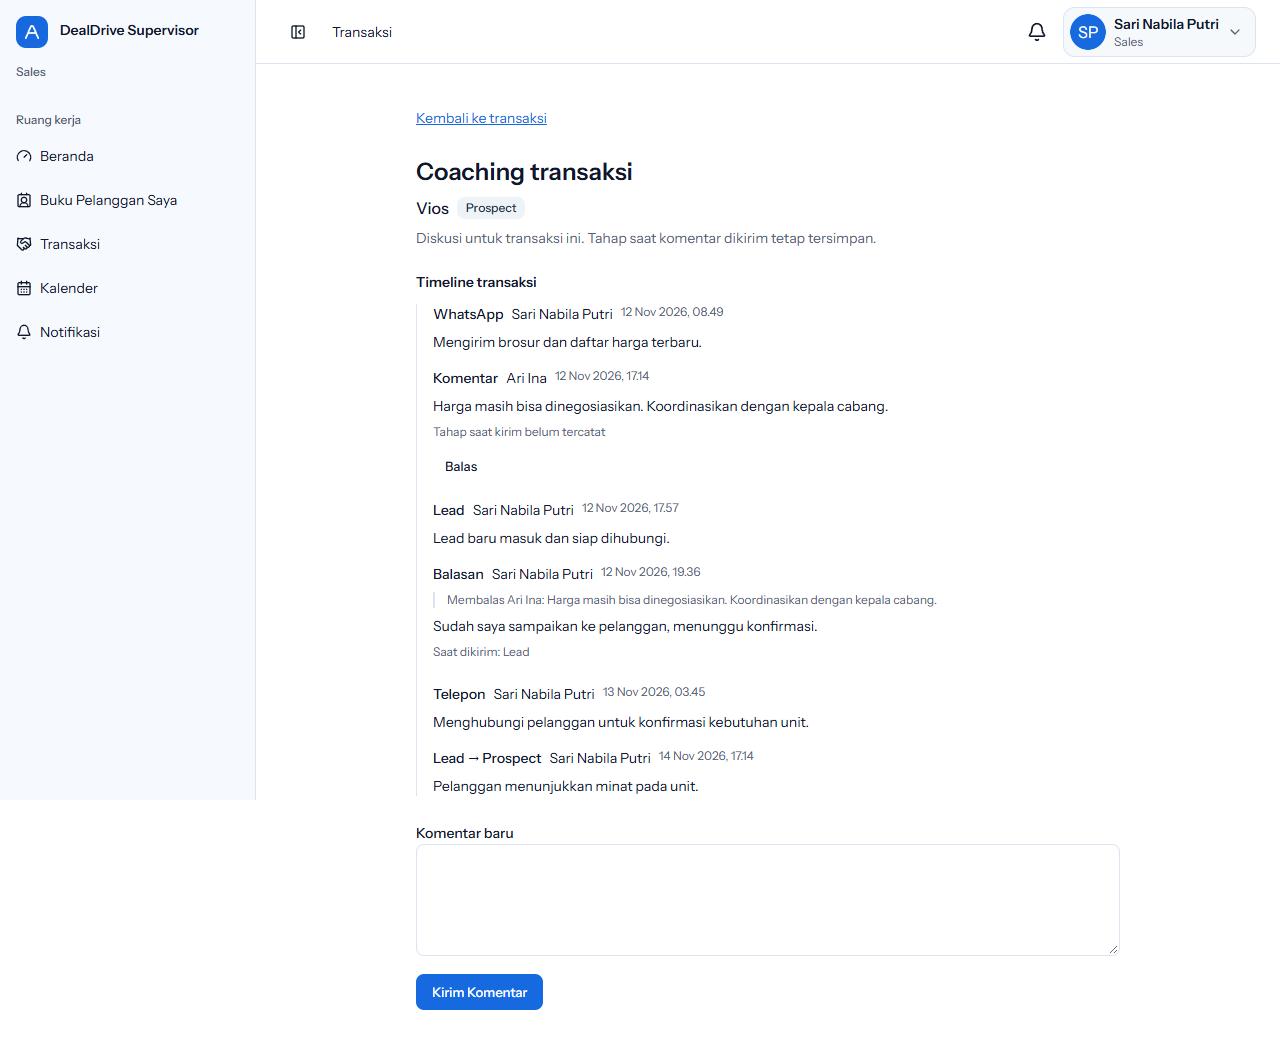
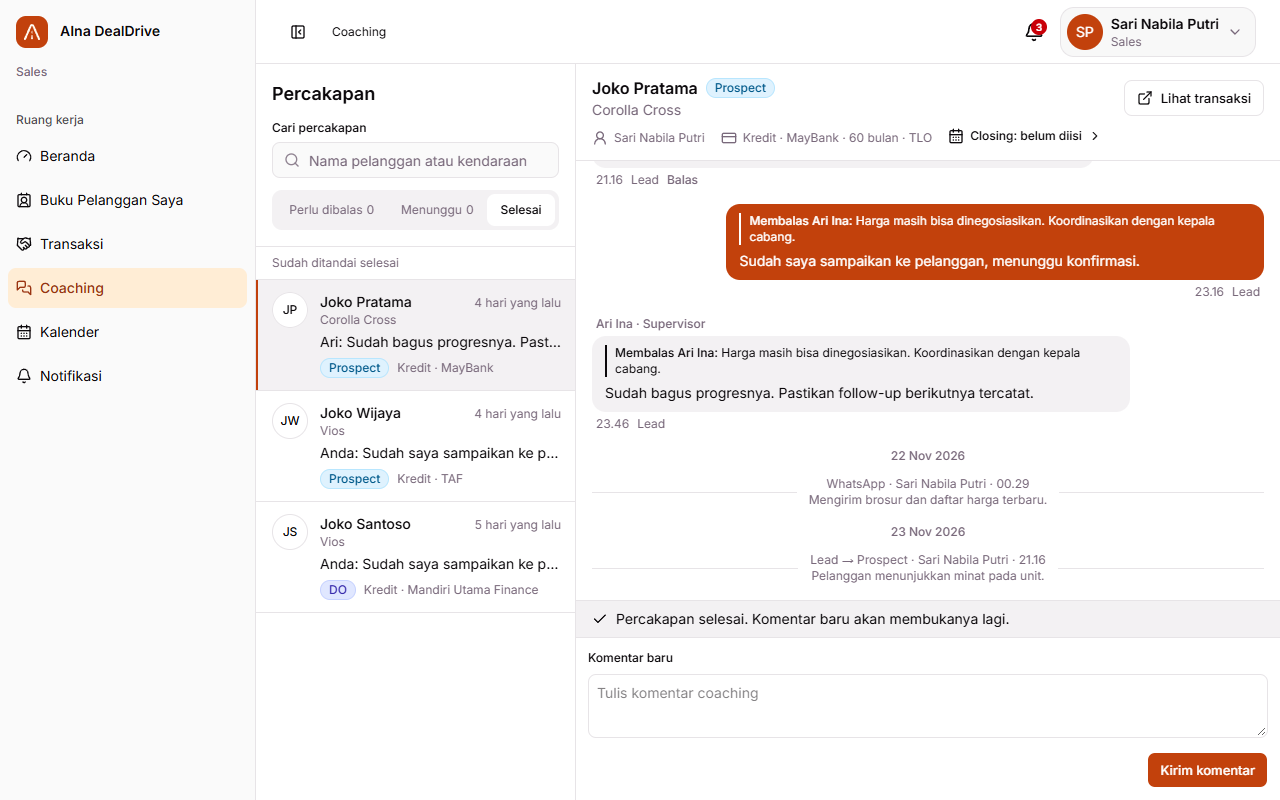
docs(coaching): record coaching inbox rules and update the manual

diff --git a/public/manual/supervisor.html b/public/manual/supervisor.html
@@ -168,12 +168,25 @@
     <li>Tulis arahan di <span class="ui">Komentar baru</span>, lalu klik <span class="ui">Kirim komentar</span>.</li>
     <li>Untuk menanggapi balasan Sales, klik <span class="ui">Balas</span> pada komentarnya.</li>
   </ol>
+  <h3>Menu Coaching</h3>
+  <p>Menu <span class="ui">Coaching</span> mengumpulkan semua percakapan tim Anda (di HP: <span class="ui">Lainnya</span>). Pilih percakapan di daftar untuk membaca dan membalasnya.</p>
+  <ul>
+    <li><strong>Perlu dibalas</strong>: komentar terakhir ditulis Sales. Percakapan tetap di sini sampai dibalas atau selesai, tanpa batas waktu.</li>
+    <li><strong>Menunggu</strong>: komentar terakhir dari Anda atau Supervisor lain di tim.</li>
+    <li><strong>Selesai</strong>: sudah ditandai selesai. Komentar baru membukanya lagi.</li>
+  </ul>
+  <ol class="steps">
+    <li>Bila arahan sudah dijalankan, klik <span class="ui">Tandai selesai</span>. Hanya Supervisor yang dapat melakukannya, dan percakapan hilang dari daftar aktif Anda dan Sales.</li>
+    <li>Bila muncul <em>Ada komentar baru</em>, baca dulu balasan yang baru masuk, lalu tandai lagi.</li>
+    <li>Klik <span class="ui">Buka lagi</span> bila percakapan ternyata belum tuntas.</li>
+  </ol>
+  <p>Transaksi yang menjadi DO atau Lost tidak otomatis selesai, supaya alasannya masih dapat dibahas. <span class="ui">Lihat transaksi</span> membuka halaman Transaksi yang hanya berisi transaksi itu. Kotak pencarian mencari nama pelanggan atau kendaraan di semua status.</p>
   <figure>
-    <a href="img/spv/coaching.png" target="_blank"><img src="img/spv/coaching.png" alt="Halaman coaching transaksi dengan timeline dan komentar" width="1280" height="800" loading="lazy"></a>
-    <figcaption>Halaman Coaching transaksi: timeline aktivitas, perubahan tahap, komentar, dan balasan.</figcaption>
+    <a href="img/spv/coaching.png" target="_blank"><img src="img/spv/coaching.png" alt="Halaman Coaching dengan daftar percakapan dan chat" width="1280" height="800" loading="lazy"></a>
+    <figcaption>Halaman Coaching (data contoh): daftar percakapan, chat, perubahan tahap, dan aktivitas.</figcaption>
   </figure>
   <ul>
-    <li>Setiap komentar mencatat tahap transaksi saat dikirim (<em>Saat dikirim: …</em>).</li>
+    <li>Setiap komentar mencatat tahap transaksi saat dikirim.</li>
     <li>Komentar masih dapat diperbaiki dalam <strong>5 menit</strong> setelah dikirim.</li>
     <li>Sales menerima pemberitahuan di aplikasi dan email. Email tidak memuat isi komentar.</li>
   </ul>

diff --git a/public/manual/index.html b/public/manual/index.html
@@ -18,7 +18,7 @@
   <h1>Manual Book AIna DealDrive</h1>
   <p>Panduan langkah demi langkah memakai aplikasi AIna DealDrive. Pilih manual sesuai peran akun Anda.</p>
   <ul class="meta">
-    <li>Versi 1.4.0</li>
+    <li>Versi 1.5.0</li>
     <li>25 November 2026</li>
     <li>Berlaku untuk aplikasi v1.5.0 dan pembaruan sesudahnya</li>
   </ul>
@@ -56,6 +56,7 @@
   <h2>Riwayat versi</h2>
   <div class="table-wrap"><table>
     <tr><th>Versi</th><th>Tanggal</th><th>Versi aplikasi</th><th>Perubahan</th></tr>
+    <tr><td>1.5.0</td><td>25 November 2026</td><td>Setelah v1.9.0</td><td>Menu <strong>Coaching</strong> baru: daftar percakapan yang perlu dibalas, menunggu, atau selesai, dengan tampilan chat dan tautan ke transaksinya. Supervisor menandai percakapan selesai.</td></tr>
     <tr><td>1.4.0</td><td>25 November 2026</td><td>v1.9.0</td><td>Supervisor dan Admin dapat menghapus transaksi ganda atau salah input bulan berjalan dari detail transaksi, dengan alasan wajib.</td></tr>
     <tr><td>1.3.0</td><td>20 November 2026</td><td>v1.5.0+</td><td>Tahap <strong>Delivery</strong> dihapus; DO menjadi tahap akhir. Pembatalan DO oleh Admin hanya pada bulan yang sama saat DO dicatat. Follow-up tidak dapat dijadwalkan pada transaksi DO atau Lost.</td></tr>
     <tr><td>1.2.0</td><td>20 November 2026</td><td>v1.4.0+</td><td>Sumber lead Repeat Order dan Database ditambahkan; Telepon Masuk dihapus. Transaksi mencatat <strong>Warna</strong> dan <strong>Ownership</strong> kendaraan (Ownership wajib saat DO). Filter Transaksi memakai <strong>Rentang tanggal tahap</strong>. Supervisor: laporan <strong>Capaian Sales</strong> dan tabel capaian per tahap di Beranda, grafik di Sumber &amp; Model yang bisa diklik untuk Drilldown, dan notifikasi Stagnan kini membuka semua transaksi stagnan.</td></tr>
@@ -66,7 +67,7 @@
 </section>
 
 <footer>
-  <p>Manual Book AIna DealDrive · Versi 1.4.0 · Pertanyaan tentang penggunaan aplikasi dapat disampaikan kepada Supervisor atau Admin dealer Anda.</p>
+  <p>Manual Book AIna DealDrive · Versi 1.5.0 · Pertanyaan tentang penggunaan aplikasi dapat disampaikan kepada Supervisor atau Admin dealer Anda.</p>
 </footer>
 </main>
 </body>

diff --git a/public/manual/sales.html b/public/manual/sales.html
@@ -382,10 +382,17 @@
     <li>Komentar Anda masih dapat diperbaiki dalam <strong>5 menit</strong> setelah dikirim.</li>
     <li>Komentar baru menghasilkan pemberitahuan di aplikasi dan email. Email tidak memuat isi komentar; buka aplikasi untuk membacanya.</li>
   </ul>
-  <p>Percakapan ini juga dapat dibuka sebagai halaman penuh beserta linimasa transaksi:</p>
+  <h3>Menu Coaching</h3>
+  <p>Menu <span class="ui">Coaching</span> mengumpulkan semua percakapan transaksi Anda (di HP: <span class="ui">Lainnya</span>). Pilih percakapan di daftar untuk membaca dan membalasnya.</p>
+  <ul>
+    <li><strong>Perlu dibalas</strong>: komentar terakhir ditulis Supervisor. Percakapan tetap di sini sampai dibalas atau selesai, tanpa batas waktu.</li>
+    <li><strong>Menunggu</strong>: komentar terakhir dari Anda.</li>
+    <li><strong>Selesai</strong>: sudah ditandai selesai oleh Supervisor. Komentar baru membukanya lagi.</li>
+  </ul>
+  <p>Di atas chat tampil pelanggan, kendaraan, tahap, pembiayaan, dan estimasi closing. Klik <span class="ui">Lihat transaksi</span> untuk membuka halaman Transaksi yang hanya berisi transaksi itu. Kotak pencarian mencari nama pelanggan atau kendaraan di semua status.</p>
   <figure>
-    <a href="img/coaching.png" target="_blank"><img src="img/coaching.png" alt="Halaman coaching transaksi" width="1280" height="1042" loading="lazy"></a>
-    <figcaption>Halaman Coaching transaksi.</figcaption>
+    <a href="img/coaching.png" target="_blank"><img src="img/coaching.png" alt="Halaman Coaching dengan daftar percakapan dan chat" width="1280" height="800" loading="lazy"></a>
+    <figcaption>Halaman Coaching (data contoh).</figcaption>
   </figure>
 </section>
 

diff --git a/docs/agents/uat-matrix.md b/docs/agents/uat-matrix.md
@@ -108,6 +108,8 @@ Kolom UAT sengaja terpisah dari status teknis. Semua hasil masih **Belum dijalan
 | [CVS-12](PRD.md#75-conversation--coaching-cvs) | S, V | [V03](#v03) | [E35](#e35): Supervisor tim menerima notifikasi saat Sales mengubah tahap dan saat DO dibatalkan; pelaku, Supervisor nonaktif, transisi ditolak dan lead baru tidak memicu notifikasi. | Parsial | Isi notifikasi "tanpa data pelanggan" belum diassert eksplisit. | Belum dijalankan |
 | [CVS-13](PRD.md#75-conversation--coaching-cvs) | S, V | [V03](#v03) | [E36](#e36): notifikasi per transaksi untuk Sales dan ringkasan untuk Supervisor; idempoten, ulang setelah aktif lalu stagnan lagi, batas hari Jakarta, jadwal harian terdaftar. | Terverifikasi teknis | Bergantung scheduler production berjalan ([O01](#o01)); UAT manusia belum dijalankan. | Belum dijalankan |
 | [CVS-14](PRD.md#75-conversation--coaching-cvs) | Semua | [V03](#v03) | [E37](#e37): notifikasi rilis di lonceng dan riwayat semua role, satu kali per pengguna aktif, halaman Riwayat Rilis untuk semua role, validasi isi rilis. | Parsial | Versi aplikasi di menu pengguna dan bahasa awam isi rilis belum diassert. | Belum dijalankan |
+| [CVS-15](PRD.md#75-conversation--coaching-cvs) | S, V, A, B | [V03](#v03) | [CoachingInboxTest](../../tests/Feature/Customer/CoachingInboxTest.php): giliran per role, cakupan tim/dealer, komentar lama tetap tampil, pencarian literal, pembiayaan tanpa kontak, Branch Manager 403; filter satu transaksi di [TransactionFiltersTest](../../tests/Feature/TransactionFiltersTest.php). | Parsial | Dijalankan pada SQLite dan skrip browser; alur PostgreSQL dan UAT pengguna. | Belum dijalankan |
+| [CVS-16](PRD.md#75-conversation--coaching-cvs) | S, V, A | [V03](#v03) | [CoachingInboxTest](../../tests/Feature/Customer/CoachingInboxTest.php): hanya Supervisor tim, komentar baru membuka lagi, layar usang ditolak, audit tanpa isi, backfill DO/Lost, login sebagai tidak menulis. | Parsial | UAT pengguna. | Belum dijalankan |
 
 ### Impor
 

diff --git a/docs/agents/memory.md b/docs/agents/memory.md
@@ -3,11 +3,19 @@
 | Item | Keterangan |
 |---|---|
 | Dokumen | Keadaan proyek dan handoff agent |
-| Versi | v1.71 |
+| Versi | v1.72 |
 | Diperbarui | 25 November 2026 |
 | Status | Aktif |
 
 Memory bukan sumber requirement. Bila isi memory bertentangan dengan PRD atau ADR, ikuti PRD/ADR dan perbaiki memory.
+
+## Pembaruan 25 November 2026 — halaman Coaching
+
+- Branch `feat/coaching-inbox` menambah menu Coaching dua panel ([CVS-15, CVS-16](PRD.md), [desain](../superpowers/specs/2026-11-25-coaching-inbox-design.md)). `/coaching` dan `/transactions/{transaction}/coaching` memakai satu halaman; tautan notifikasi, email dan Beranda tidak berubah. Filter `transaction` ditambahkan pada daftar Transaksi dan ekspor CSV. Manual 1.5.0. Tanpa package baru: `shadcn add bubble` mencoba menambah package npm `cn`; dibatalkan dan diganti `@/lib/utils`.
+- Migration `2026_11_25_110000_add_coaching_closed_at_to_deal_transactions_table` belum dijalankan ke database non-test. Saat rilis, jalankan sebelum kode baru aktif; tanpa kolom itu halaman Coaching error.
+- Form estimasi closing kini terbuka otomatis hanya untuk SPK yang estimasinya kosong atau lewat; tahap lain tetap dapat dibuka manual.
+- Bukti: `composer ci:check` lulus (751 tes, 748 lulus, 3 skip), 345 tes terkait lulus pada PostgreSQL 16 sekali pakai, skrip browser terisolasi lulus, dan tampilan diperiksa pada 390/768/1440px terang dan gelap dengan data demo sekali pakai.
+- Di luar cakupan: realtime, badge angka di menu, filter per Sales, pencarian isi chat. "Komentar belum dibaca" di Beranda tetap memakai notifikasi 3 hari.
 
 ## Pembaruan 25 November 2026 — hapus transaksi ganda
 

diff --git a/docs/agents/PRD.md b/docs/agents/PRD.md
@@ -238,6 +238,8 @@ Undangan kedaluwarsa atau sudah digunakan harus ditolak. Tidak ada registrasi ma
 | CVS-12 | **Supervisor menerima notifikasi in-app saat Sales timnya mengubah tahap transaksi.** Isinya hanya tahap lama dan baru, tanpa data pelanggan. | M |
 | CVS-13 | **Sales menerima notifikasi per transaksi yang baru menjadi stagnan; Supervisor menerima satu ringkasan harian berisi jumlahnya.** | M |
 | CVS-14 | **Semua pengguna menerima notifikasi in-app saat versi baru dirilis dan dapat membuka halaman Riwayat Rilis.** Versi aplikasi yang berjalan tampil di menu pengguna; isi rilis berbahasa awam. | M |
+| CVS-15 | **Halaman Coaching mendaftar semua percakapan yang boleh dibaca pengguna beserta transaksinya.** Percakapan adalah transaksi yang mempunyai komentar. Giliran dihitung dari penulis komentar terakhir: komentar Sales menunggu Supervisor, selain itu menunggu Sales; tidak ada batas umur. Daftar dan percakapan menampilkan pelanggan, kendaraan, tahap, Sales, pembiayaan, serta tautan ke transaksi itu. Pencarian mencocokkan nama pelanggan dan kendaraan di semua status. Admin hanya membaca; Branch Manager tidak mempunyai akses. | M |
+| CVS-16 | **Supervisor tim menandai percakapan selesai atau membukanya lagi; status dipakai bersama.** Komentar baru dari siapa pun membuka percakapan selesai. Penandaan ditolak bila ada komentar yang belum terlihat oleh Supervisor. DO dan Lost tidak otomatis menutup percakapan; hanya transaksi yang sudah DO atau Lost saat fitur ini dirilis dimulai sebagai selesai. Penandaan tercatat di audit tanpa isi komentar. | M |
 
 ### 7.6 CSV Import (`IMP`)
 

diff --git a/docs/operations/coaching-notifications.md b/docs/operations/coaching-notifications.md
@@ -4,7 +4,7 @@
 
 Penulisan dan koreksi komentar dibatasi ke Sales pemilik transaksi dan Supervisor tim yang berhak. Admin hanya membaca untuk audit; Branch Manager tidak memperoleh halaman coaching. Reply hanya satu tingkat, dengan parent pada transaksi yang sama. Stage snapshot berasal dari server saat komentar dibuat dan tidak berubah ketika tahap transaksi atau isi komentar berubah.
 
-Notifikasi ditujukan ke Sales pemilik transaksi dan Supervisor aktif pada tim Sales tersebut, selain penulis. Admin, Branch Manager, Sales lain, tim/dealer asing dan akun nonaktif tidak menjadi penerima. Hak penerima diperiksa ulang saat job email berjalan. Halaman `/transactions/{transaction}/coaching` hanya mengirim transaksi dan conversation yang diotorisasi, tanpa payload Customer, sehingga tetap dapat dipakai pemilik transaksi resmi setelah assignment Customer berubah.
+Notifikasi ditujukan ke Sales pemilik transaksi dan Supervisor aktif pada tim Sales tersebut, selain penulis. Admin, Branch Manager, Sales lain, tim/dealer asing dan akun nonaktif tidak menjadi penerima. Hak penerima diperiksa ulang saat job email berjalan. Halaman `/transactions/{transaction}/coaching` hanya mengirim transaksi dan conversation yang diotorisasi, dan dari Customer hanya namanya (tanpa kontak, alamat, atau catatan), sehingga tetap dapat dipakai pemilik transaksi resmi setelah assignment Customer berubah.
 
 ## Persiapan deployment
 

diff --git a/docs/agents/README.md b/docs/agents/README.md
@@ -13,6 +13,8 @@ Dokumen dalam folder ini disusun untuk agent dan engineer yang tidak ikut dalam 
 
 | File | Jenis | Fungsi |
 |---|---|---|
+| [../superpowers/specs/2026-11-25-coaching-inbox-design.md](../superpowers/specs/2026-11-25-coaching-inbox-design.md) | Desain | Halaman Coaching dua panel: daftar percakapan menurut giliran, status selesai oleh Supervisor, bubble chat, pembiayaan, pencarian, dan tautan transaksi; disetujui 25 November 2026. |
+| [../superpowers/plans/2026-11-25-coaching-inbox.md](../superpowers/plans/2026-11-25-coaching-inbox.md) | Rencana | Lima task: status percakapan, daftar, filter satu transaksi, tampilan, dokumen. |
 | [adr/ADR-012-soft-delete-transactions.md](adr/ADR-012-soft-delete-transactions.md) | ADR | Transaksi ganda bulan berjalan dihapus Admin/Supervisor dengan soft delete, alasan wajib dan audit (PIP-09). |
 | [adr/ADR-011-read-only-impersonation.md](adr/ADR-011-read-only-impersonation.md) | ADR | Admin dapat "login sebagai" pengguna aktif non-Admin di dealernya, hanya lihat; tulis dan export ditolak middleware, audit mulai/selesai, angka target management tetap tampil (IAM-09). |
 | [../superpowers/specs/2026-11-24-login-sebagai-design.md](../superpowers/specs/2026-11-24-login-sebagai-design.md) | Desain | Desain "login sebagai" read-only; disetujui 24 November 2026. |

diff --git a/DESIGN.md b/DESIGN.md
@@ -43,6 +43,7 @@ Tema "Mira" (shadcn, PR #158). Token kanonik berada di `resources/css/app.css`; 
 - Status memakai tint pucat dengan teks gelap; warna bukan satu-satunya pembeda.
 - Badge tahap memakai satu komponen bersama: Lead slate, Prospect sky, Hot Prospect amber, SPK violet, DO indigo, dan Lost rose. Tema gelap memakai tint gelap dengan teks terang; nama tahap selalu ditampilkan dan pasangan teks/latar harus memenuhi 4,5:1.
 - Lost pada tema gelap memakai burgundy redup: latar `#30252c`, border `#60434d`, teks `#dfb7c2`; saturasi latar/border rendah agar tidak menyala di tabel gelap, dengan kontras teks sekitar 8,19:1. Palet Lost tema terang tetap.
+- Coaching: dua panel bila lebar halaman (container, bukan viewport) minimal 672px, selain itu daftar lalu percakapan. Bubble memakai komponen shadcn `ui/bubble`: milik sendiri `default` di kanan, pihak lain `muted` di kiri dengan nama dan peran. Bubble beruntun dari penulis yang sama digabung, tanggal menjadi pemisah hari Jakarta, dan perubahan tahap atau aktivitas menjadi garis dengan teks di tengah. Form estimasi closing terbuka otomatis hanya untuk SPK yang estimasinya kosong atau lewat.
 - Satu tombol primary per layar. Shadow hanya pada dialog/sheet yang mengambang.
 - Ikon berupa SVG outline konsisten; tidak memakai emoji.
 

diff --git a/docs/agents/knowledge.md b/docs/agents/knowledge.md
@@ -78,6 +78,8 @@ Bobot forecast belum ditetapkan. Nilai final harus diputuskan Product Owner bers
 | Coaching comment | Arahan Supervisor kepada Sales yang terkait dengan transaksi tertentu. |
 | System event | Catatan otomatis, misalnya perubahan tahap atau penugasan Sales. |
 | Comment revision | Versi sebelumnya dari komentar yang diedit dalam jendela koreksi. |
+| Percakapan coaching | Satu transaksi yang mempunyai komentar; statusnya Perlu dibalas, Menunggu, atau Selesai. |
+| Giliran | Pihak (Sales atau Supervisor) yang tidak menulis komentar terakhir. |
 | In-app notification | Pemberitahuan di dalam aplikasi yang mempunyai status belum dibaca atau sudah dibaca. |
 
 Conversation coaching hanya dibaca oleh Sales terkait, Supervisor terkait, dan Admin untuk audit. Branch Manager tidak membaca isi coaching.

diff --git a/docs/design/aina-sms-navigation/menu-structure.md b/docs/design/aina-sms-navigation/menu-structure.md
@@ -6,7 +6,8 @@
 - Mobile menampilkan maksimal empat tujuan primer; tujuan lain berada dalam sheet **Lainnya**.
 - Notifikasi dapat dibuka dari header dan memiliki halaman khusus.
 - Profil dan keluar akun berada dalam menu akun.
-- Coaching, riwayat tahap, dan audit hanya muncul di detail transaksi, bukan sebagai menu utama.
+- Riwayat tahap dan audit hanya muncul di detail transaksi, bukan sebagai menu utama.
+- Coaching adalah menu Sales, Supervisor, dan Admin setelah Transaksi (keputusan pemilik, 25 November 2026; CVS-15). Di mobile berada di Lainnya. Komentar tetap tersedia di detail transaksi.
 - Role selector hanya tersedia pada prototipe untuk review dan tidak menjadi UI produksi.
 
 ## Sales
